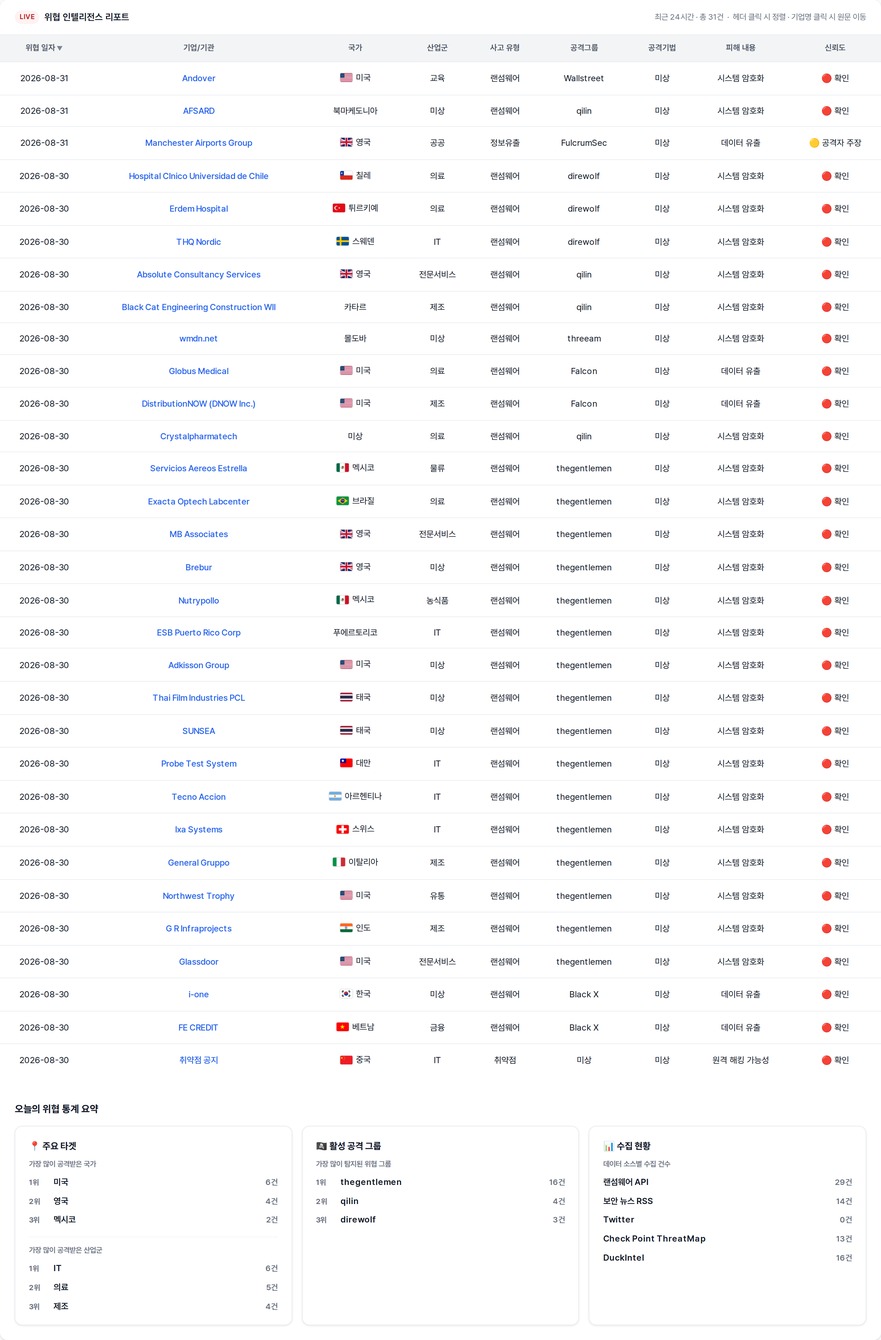
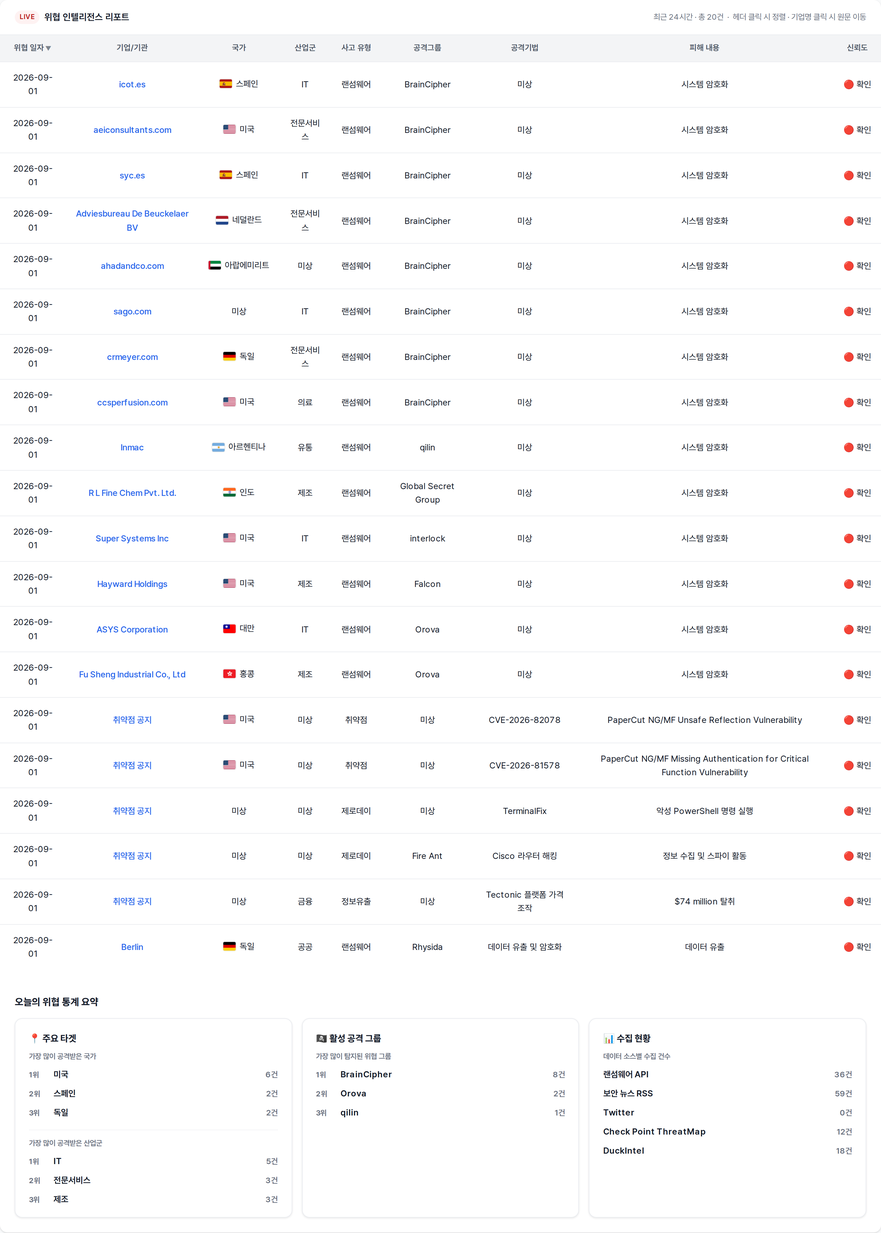
deploy: 9c533ad8fcaa3f846a31aadab046301a26f1192c

diff --git a/index.html b/index.html
@@ -3,7 +3,7 @@
 <head>
   <meta charset="UTF-8" />
   <meta name="viewport" content="width=device-width, initial-scale=1.0" />
-  <title>🚨 2026년 08월 31일 국내/해외 사이버 위협 현황</title>
+  <title>🚨 2026년 09월 01일 국내/해외 사이버 위협 현황</title>
   <link rel="preconnect" href="https://cdn.jsdelivr.net" />
   <link href="https://cdn.jsdelivr.net/gh/orioncactus/pretendard/dist/web/static/pretendard.css" rel="stylesheet" />
   <style>
@@ -253,7 +253,7 @@
 </head>
 <body>
   <div class="page-header">
-    <h1 class="page-title">🚨 2026년 08월 31일 국내/해외 사이버 위협 현황</h1>
+    <h1 class="page-title">🚨 2026년 09월 01일 국내/해외 사이버 위협 현황</h1>
   </div>
 
   <div class="dashboard">
@@ -261,43 +261,32 @@
     <div class="card-header">
       <span class="badge">LIVE</span>
       <span class="card-title">위협 인텔리전스 리포트</span>
-      <span class="card-count">최근 24시간 · 총 31건 &nbsp;·&nbsp; 헤더 클릭 시 정렬 · 기업명 클릭 시 원문 이동</span>
+      <span class="card-count">최근 24시간 · 총 20건 &nbsp;·&nbsp; 헤더 클릭 시 정렬 · 기업명 클릭 시 원문 이동</span>
     </div>
     <div class="table-wrap" style="overflow-x: auto; -webkit-overflow-scrolling: touch;">
       <table id="threat-table">
         <thead><tr><th onclick="sortTable(0)" data-col="0" class="sort-desc">위협 일자</th><th onclick="sortTable(1)" data-col="1">기업/기관</th><th onclick="sortTable(2)" data-col="2">국가</th><th onclick="sortTable(3)" data-col="3">산업군</th><th onclick="sortTable(4)" data-col="4">사고 유형</th><th onclick="sortTable(5)" data-col="5">공격그룹</th><th onclick="sortTable(6)" data-col="6">공격기법</th><th onclick="sortTable(7)" data-col="7">피해 내용</th><th onclick="sortTable(8)" data-col="8">신뢰도</th></tr></thead>
         <tbody>
-<tr><td>2026-08-31</td><td><a href="https://www.ransomware.live/id/QW5kb3ZlckBXYWxsc3RyZWV0" target="_blank" rel="noopener noreferrer">Andover</a></td><td class="country"><span class="country-cell"><img class="flag" src="https://flagcdn.com/w40/us.png" alt="미국" width="20" height="14" />미국</span></td><td>교육</td><td>랜섬웨어</td><td>Wallstreet</td><td>미상</td><td>시스템 암호화</td><td>🔴 확인</td></tr>
-<tr><td>2026-08-31</td><td><a href="https://www.ransomware.live/id/QUZTQVJEQHFpbGlu" target="_blank" rel="noopener noreferrer">AFSARD</a></td><td class="country"><span class="country-cell">북마케도니아</span></td><td>미상</td><td>랜섬웨어</td><td>qilin</td><td>미상</td><td>시스템 암호화</td><td>🔴 확인</td></tr>
-<tr><td>2026-08-31</td><td><a href="https://www.bleepingcomputer.com/news/security/fulcrumsec-claims-manchester-airports-hack-theft-of-86-gb-of-data/" target="_blank" rel="noopener noreferrer">Manchester Airports Group</a></td><td class="country"><span class="country-cell"><img class="flag" src="https://flagcdn.com/w40/gb.png" alt="영국" width="20" height="14" />영국</span></td><td>공공</td><td>정보유출</td><td>FulcrumSec</td><td>미상</td><td>데이터 유출</td><td>🟡 공격자 주장</td></tr>
-<tr><td>2026-08-30</td><td><a href="https://www.ransomware.live/id/SG9zcGl0YWwgQ2xuaWNvIFVuaXZlcnNpZGFkIGRlIENoaWxlQGRpcmV3b2xm" target="_blank" rel="noopener noreferrer">Hospital Clnico Universidad de Chile</a></td><td class="country"><span class="country-cell"><img class="flag" src="https://flagcdn.com/w40/cl.png" alt="칠레" width="20" height="14" />칠레</span></td><td>의료</td><td>랜섬웨어</td><td>direwolf</td><td>미상</td><td>시스템 암호화</td><td>🔴 확인</td></tr>
-<tr><td>2026-08-30</td><td><a href="https://www.ransomware.live/id/RXJkZW0gSG9zcGl0YWxAZGlyZXdvbGY=" target="_blank" rel="noopener noreferrer">Erdem Hospital</a></td><td class="country"><span class="country-cell"><img class="flag" src="https://flagcdn.com/w40/tr.png" alt="튀르키예" width="20" height="14" />튀르키예</span></td><td>의료</td><td>랜섬웨어</td><td>direwolf</td><td>미상</td><td>시스템 암호화</td><td>🔴 확인</td></tr>
-<tr><td>2026-08-30</td><td><a href="https://www.ransomware.live/id/VEhRIE5vcmRpY0BkaXJld29sZg==" target="_blank" rel="noopener noreferrer">THQ Nordic</a></td><td class="country"><span class="country-cell"><img class="flag" src="https://flagcdn.com/w40/se.png" alt="스웨덴" width="20" height="14" />스웨덴</span></td><td>IT</td><td>랜섬웨어</td><td>direwolf</td><td>미상</td><td>시스템 암호화</td><td>🔴 확인</td></tr>
-<tr><td>2026-08-30</td><td><a href="https://www.ransomware.live/id/QWJzb2x1dGUgQ29uc3VsdGFuY3kgU2VydmljZXNAcWlsaW4=" target="_blank" rel="noopener noreferrer">Absolute Consultancy Services</a></td><td class="country"><span class="country-cell"><img class="flag" src="https://flagcdn.com/w40/gb.png" alt="영국" width="20" height="14" />영국</span></td><td>전문서비스</td><td>랜섬웨어</td><td>qilin</td><td>미상</td><td>시스템 암호화</td><td>🔴 확인</td></tr>
-<tr><td>2026-08-30</td><td><a href="https://www.ransomware.live/id/QmxhY2sgQ2F0IEVuZ2luZWVyaW5nIENvbnN0cnVjdGlvbiBXbGxAcWlsaW4=" target="_blank" rel="noopener noreferrer">Black Cat Engineering Construction Wll</a></td><td class="country"><span class="country-cell">카타르</span></td><td>제조</td><td>랜섬웨어</td><td>qilin</td><td>미상</td><td>시스템 암호화</td><td>🔴 확인</td></tr>
-<tr><td>2026-08-30</td><td><a href="https://www.ransomware.live/id/d21kbi5uZXRAdGhyZWVhbQ==" target="_blank" rel="noopener noreferrer">wmdn.net</a></td><td class="country"><span class="country-cell">몰도바</span></td><td>미상</td><td>랜섬웨어</td><td>threeam</td><td>미상</td><td>시스템 암호화</td><td>🔴 확인</td></tr>
-<tr><td>2026-08-30</td><td><a href="https://www.ransomware.live/id/R2xvYnVzIE1lZGljYWxARmFsY29u" target="_blank" rel="noopener noreferrer">Globus Medical</a></td><td class="country"><span class="country-cell"><img class="flag" src="https://flagcdn.com/w40/us.png" alt="미국" width="20" height="14" />미국</span></td><td>의료</td><td>랜섬웨어</td><td>Falcon</td><td>미상</td><td>데이터 유출</td><td>🔴 확인</td></tr>
-<tr><td>2026-08-30</td><td><a href="https://www.ransomware.live/id/RGlzdHJpYnV0aW9uTk9XIChETk9XIEluYy4pQEZhbGNvbg==" target="_blank" rel="noopener noreferrer">DistributionNOW (DNOW Inc.)</a></td><td class="country"><span class="country-cell"><img class="flag" src="https://flagcdn.com/w40/us.png" alt="미국" width="20" height="14" />미국</span></td><td>제조</td><td>랜섬웨어</td><td>Falcon</td><td>미상</td><td>데이터 유출</td><td>🔴 확인</td></tr>
-<tr><td>2026-08-30</td><td><a href="https://www.ransomware.live/id/Q3J5c3RhbHBoYXJtYXRlY2hAcWlsaW4=" target="_blank" rel="noopener noreferrer">Crystalpharmatech</a></td><td class="country"><span class="country-cell">미상</span></td><td>의료</td><td>랜섬웨어</td><td>qilin</td><td>미상</td><td>시스템 암호화</td><td>🔴 확인</td></tr>
-<tr><td>2026-08-30</td><td><a href="https://www.ransomware.live/id/U2VydmljaW9zIEFlcmVvcyBFc3RyZWxsYUB0aGVnZW50bGVtZW4=" target="_blank" rel="noopener noreferrer">Servicios Aereos Estrella</a></td><td class="country"><span class="country-cell"><img class="flag" src="https://flagcdn.com/w40/mx.png" alt="멕시코" width="20" height="14" />멕시코</span></td><td>물류</td><td>랜섬웨어</td><td>thegentlemen</td><td>미상</td><td>시스템 암호화</td><td>🔴 확인</td></tr>
-<tr><td>2026-08-30</td><td><a href="https://www.ransomware.live/id/RXhhY3RhIE9wdGVjaCBMYWJjZW50ZXJAdGhlZ2VudGxlbWVu" target="_blank" rel="noopener noreferrer">Exacta Optech Labcenter</a></td><td class="country"><span class="country-cell"><img class="flag" src="https://flagcdn.com/w40/br.png" alt="브라질" width="20" height="14" />브라질</span></td><td>의료</td><td>랜섬웨어</td><td>thegentlemen</td><td>미상</td><td>시스템 암호화</td><td>🔴 확인</td></tr>
-<tr><td>2026-08-30</td><td><a href="https://www.ransomware.live/id/TUIgQXNzb2NpYXRlc0B0aGVnZW50bGVtZW4=" target="_blank" rel="noopener noreferrer">MB Associates</a></td><td class="country"><span class="country-cell"><img class="flag" src="https://flagcdn.com/w40/gb.png" alt="영국" width="20" height="14" />영국</span></td><td>전문서비스</td><td>랜섬웨어</td><td>thegentlemen</td><td>미상</td><td>시스템 암호화</td><td>🔴 확인</td></tr>
-<tr><td>2026-08-30</td><td><a href="https://www.ransomware.live/id/QnJlYnVyQHRoZWdlbnRsZW1lbg==" target="_blank" rel="noopener noreferrer">Brebur</a></td><td class="country"><span class="country-cell"><img class="flag" src="https://flagcdn.com/w40/gb.png" alt="영국" width="20" height="14" />영국</span></td><td>미상</td><td>랜섬웨어</td><td>thegentlemen</td><td>미상</td><td>시스템 암호화</td><td>🔴 확인</td></tr>
-<tr><td>2026-08-30</td><td><a href="https://www.ransomware.live/id/TnV0cnlwb2xsb0B0aGVnZW50bGVtZW4=" target="_blank" rel="noopener noreferrer">Nutrypollo</a></td><td class="country"><span class="country-cell"><img class="flag" src="https://flagcdn.com/w40/mx.png" alt="멕시코" width="20" height="14" />멕시코</span></td><td>농식품</td><td>랜섬웨어</td><td>thegentlemen</td><td>미상</td><td>시스템 암호화</td><td>🔴 확인</td></tr>
-<tr><td>2026-08-30</td><td><a href="https://www.ransomware.live/id/RVNCIFB1ZXJ0byBSaWNvIENvcnBAdGhlZ2VudGxlbWVu" target="_blank" rel="noopener noreferrer">ESB Puerto Rico Corp</a></td><td class="country"><span class="country-cell">푸에르토리코</span></td><td>IT</td><td>랜섬웨어</td><td>thegentlemen</td><td>미상</td><td>시스템 암호화</td><td>🔴 확인</td></tr>
-<tr><td>2026-08-30</td><td><a href="https://www.ransomware.live/id/QWRraXNzb24gR3JvdXBAdGhlZ2VudGxlbWVu" target="_blank" rel="noopener noreferrer">Adkisson Group</a></td><td class="country"><span class="country-cell"><img class="flag" src="https://flagcdn.com/w40/us.png" alt="미국" width="20" height="14" />미국</span></td><td>미상</td><td>랜섬웨어</td><td>thegentlemen</td><td>미상</td><td>시스템 암호화</td><td>🔴 확인</td></tr>
-<tr><td>2026-08-30</td><td><a href="https://www.ransomware.live/id/VGhhaSBGaWxtIEluZHVzdHJpZXMgUENMQHRoZWdlbnRsZW1lbg==" target="_blank" rel="noopener noreferrer">Thai Film Industries PCL</a></td><td class="country"><span class="country-cell"><img class="flag" src="https://flagcdn.com/w40/th.png" alt="태국" width="20" height="14" />태국</span></td><td>미상</td><td>랜섬웨어</td><td>thegentlemen</td><td>미상</td><td>시스템 암호화</td><td>🔴 확인</td></tr>
-<tr><td>2026-08-30</td><td><a href="https://www.ransomware.live/id/U1VOU0VBQHRoZWdlbnRsZW1lbg==" target="_blank" rel="noopener noreferrer">SUNSEA</a></td><td class="country"><span class="country-cell"><img class="flag" src="https://flagcdn.com/w40/th.png" alt="태국" width="20" height="14" />태국</span></td><td>미상</td><td>랜섬웨어</td><td>thegentlemen</td><td>미상</td><td>시스템 암호화</td><td>🔴 확인</td></tr>
-<tr><td>2026-08-30</td><td><a href="https://www.ransomware.live/id/UHJvYmUgVGVzdCBTeXN0ZW1AdGhlZ2VudGxlbWVu" target="_blank" rel="noopener noreferrer">Probe Test System</a></td><td class="country"><span class="country-cell"><img class="flag" src="https://flagcdn.com/w40/tw.png" alt="대만" width="20" height="14" />대만</span></td><td>IT</td><td>랜섬웨어</td><td>thegentlemen</td><td>미상</td><td>시스템 암호화</td><td>🔴 확인</td></tr>
-<tr><td>2026-08-30</td><td><a href="https://www.ransomware.live/id/VGVjbm8gQWNjaW9uQHRoZWdlbnRsZW1lbg==" target="_blank" rel="noopener noreferrer">Tecno Accion</a></td><td class="country"><span class="country-cell"><img class="flag" src="https://flagcdn.com/w40/ar.png" alt="아르헨티나" width="20" height="14" />아르헨티나</span></td><td>IT</td><td>랜섬웨어</td><td>thegentlemen</td><td>미상</td><td>시스템 암호화</td><td>🔴 확인</td></tr>
-<tr><td>2026-08-30</td><td><a href="https://www.ransomware.live/id/SXhhIFN5c3RlbXNAdGhlZ2VudGxlbWVu" target="_blank" rel="noopener noreferrer">Ixa Systems</a></td><td class="country"><span class="country-cell"><img class="flag" src="https://flagcdn.com/w40/ch.png" alt="스위스" width="20" height="14" />스위스</span></td><td>IT</td><td>랜섬웨어</td><td>thegentlemen</td><td>미상</td><td>시스템 암호화</td><td>🔴 확인</td></tr>
-<tr><td>2026-08-30</td><td><a href="https://www.ransomware.live/id/R2VuZXJhbCBHcnVwcG9AdGhlZ2VudGxlbWVu" target="_blank" rel="noopener noreferrer">General Gruppo</a></td><td class="country"><span class="country-cell"><img class="flag" src="https://flagcdn.com/w40/it.png" alt="이탈리아" width="20" height="14" />이탈리아</span></td><td>제조</td><td>랜섬웨어</td><td>thegentlemen</td><td>미상</td><td>시스템 암호화</td><td>🔴 확인</td></tr>
-<tr><td>2026-08-30</td><td><a href="https://www.ransomware.live/id/Tm9ydGh3ZXN0IFRyb3BoeUB0aGVnZW50bGVtZW4=" target="_blank" rel="noopener noreferrer">Northwest Trophy</a></td><td class="country"><span class="country-cell"><img class="flag" src="https://flagcdn.com/w40/us.png" alt="미국" width="20" height="14" />미국</span></td><td>유통</td><td>랜섬웨어</td><td>thegentlemen</td><td>미상</td><td>시스템 암호화</td><td>🔴 확인</td></tr>
-<tr><td>2026-08-30</td><td><a href="https://www.ransomware.live/id/RyBSIEluZnJhcHJvamVjdHNAdGhlZ2VudGxlbWVu" target="_blank" rel="noopener noreferrer">G R Infraprojects</a></td><td class="country"><span class="country-cell"><img class="flag" src="https://flagcdn.com/w40/in.png" alt="인도" width="20" height="14" />인도</span></td><td>제조</td><td>랜섬웨어</td><td>thegentlemen</td><td>미상</td><td>시스템 암호화</td><td>🔴 확인</td></tr>
-<tr><td>2026-08-30</td><td><a href="https://www.ransomware.live/id/R2xhc3Nkb29yQHRoZWdlbnRsZW1lbg==" target="_blank" rel="noopener noreferrer">Glassdoor</a></td><td class="country"><span class="country-cell"><img class="flag" src="https://flagcdn.com/w40/us.png" alt="미국" width="20" height="14" />미국</span></td><td>전문서비스</td><td>랜섬웨어</td><td>thegentlemen</td><td>미상</td><td>시스템 암호화</td><td>🔴 확인</td></tr>
-<tr><td>2026-08-30</td><td><a href="https://www.ransomware.live/id/aS1vbmVAQmxhY2sgWA==" target="_blank" rel="noopener noreferrer">i-one</a></td><td class="country"><span class="country-cell"><img class="flag" src="https://flagcdn.com/w40/kr.png" alt="한국" width="20" height="14" />한국</span></td><td>미상</td><td>랜섬웨어</td><td>Black X</td><td>미상</td><td>데이터 유출</td><td>🔴 확인</td></tr>
-<tr><td>2026-08-30</td><td><a href="https://www.ransomware.live/id/RkUgQ1JFRElUQEJsYWNrIFg=" target="_blank" rel="noopener noreferrer">FE CREDIT</a></td><td class="country"><span class="country-cell"><img class="flag" src="https://flagcdn.com/w40/vn.png" alt="베트남" width="20" height="14" />베트남</span></td><td>금융</td><td>랜섬웨어</td><td>Black X</td><td>미상</td><td>데이터 유출</td><td>🔴 확인</td></tr>
-<tr><td>2026-08-30</td><td><a href="https://www.dailysecu.com/news/articleView.html?idxno=208268" target="_blank" rel="noopener noreferrer">취약점 공지</a></td><td class="country"><span class="country-cell"><img class="flag" src="https://flagcdn.com/w40/cn.png" alt="중국" width="20" height="14" />중국</span></td><td>IT</td><td>취약점</td><td>미상</td><td>미상</td><td>원격 해킹 가능성</td><td>🔴 확인</td></tr>
+<tr><td>2026-09-01</td><td><a href="https://www.ransomware.live/id/aWNvdC5lc0BCcmFpbkNpcGhlcg==" target="_blank" rel="noopener noreferrer">icot.es</a></td><td class="country"><span class="country-cell"><img class="flag" src="https://flagcdn.com/w40/es.png" alt="스페인" width="20" height="14" />스페인</span></td><td>IT</td><td>랜섬웨어</td><td>BrainCipher</td><td>미상</td><td>시스템 암호화</td><td>🔴 확인</td></tr>
+<tr><td>2026-09-01</td><td><a href="https://www.ransomware.live/id/YWVpY29uc3VsdGFudHMuY29tQEJyYWluQ2lwaGVy" target="_blank" rel="noopener noreferrer">aeiconsultants.com</a></td><td class="country"><span class="country-cell"><img class="flag" src="https://flagcdn.com/w40/us.png" alt="미국" width="20" height="14" />미국</span></td><td>전문서비스</td><td>랜섬웨어</td><td>BrainCipher</td><td>미상</td><td>시스템 암호화</td><td>🔴 확인</td></tr>
+<tr><td>2026-09-01</td><td><a href="https://www.ransomware.live/id/c3ljLmVzQEJyYWluQ2lwaGVy" target="_blank" rel="noopener noreferrer">syc.es</a></td><td class="country"><span class="country-cell"><img class="flag" src="https://flagcdn.com/w40/es.png" alt="스페인" width="20" height="14" />스페인</span></td><td>IT</td><td>랜섬웨어</td><td>BrainCipher</td><td>미상</td><td>시스템 암호화</td><td>🔴 확인</td></tr>
+<tr><td>2026-09-01</td><td><a href="https://www.ransomware.live/id/QWR2aWVzYnVyZWF1IERlIEJldWNrZWxhZXIgQlZAQnJhaW5DaXBoZXI=" target="_blank" rel="noopener noreferrer">Adviesbureau De Beuckelaer BV</a></td><td class="country"><span class="country-cell"><img class="flag" src="https://flagcdn.com/w40/nl.png" alt="네덜란드" width="20" height="14" />네덜란드</span></td><td>전문서비스</td><td>랜섬웨어</td><td>BrainCipher</td><td>미상</td><td>시스템 암호화</td><td>🔴 확인</td></tr>
+<tr><td>2026-09-01</td><td><a href="https://www.ransomware.live/id/YWhhZGFuZGNvLmNvbUBCcmFpbkNpcGhlcg==" target="_blank" rel="noopener noreferrer">ahadandco.com</a></td><td class="country"><span class="country-cell"><img class="flag" src="https://flagcdn.com/w40/ae.png" alt="아랍에미리트" width="20" height="14" />아랍에미리트</span></td><td>미상</td><td>랜섬웨어</td><td>BrainCipher</td><td>미상</td><td>시스템 암호화</td><td>🔴 확인</td></tr>
+<tr><td>2026-09-01</td><td><a href="https://www.ransomware.live/id/c2Fnby5jb21AQnJhaW5DaXBoZXI=" target="_blank" rel="noopener noreferrer">sago.com</a></td><td class="country"><span class="country-cell">미상</span></td><td>IT</td><td>랜섬웨어</td><td>BrainCipher</td><td>미상</td><td>시스템 암호화</td><td>🔴 확인</td></tr>
+<tr><td>2026-09-01</td><td><a href="https://www.ransomware.live/id/Y3JtZXllci5jb21AQnJhaW5DaXBoZXI=" target="_blank" rel="noopener noreferrer">crmeyer.com</a></td><td class="country"><span class="country-cell"><img class="flag" src="https://flagcdn.com/w40/de.png" alt="독일" width="20" height="14" />독일</span></td><td>전문서비스</td><td>랜섬웨어</td><td>BrainCipher</td><td>미상</td><td>시스템 암호화</td><td>🔴 확인</td></tr>
+<tr><td>2026-09-01</td><td><a href="https://www.ransomware.live/id/Y2NzcGVyZnVzaW9uLmNvbUBCcmFpbkNpcGhlcg==" target="_blank" rel="noopener noreferrer">ccsperfusion.com</a></td><td class="country"><span class="country-cell"><img class="flag" src="https://flagcdn.com/w40/us.png" alt="미국" width="20" height="14" />미국</span></td><td>의료</td><td>랜섬웨어</td><td>BrainCipher</td><td>미상</td><td>시스템 암호화</td><td>🔴 확인</td></tr>
+<tr><td>2026-09-01</td><td><a href="https://www.ransomware.live/id/SW5tYWNAcWlsaW4=" target="_blank" rel="noopener noreferrer">Inmac</a></td><td class="country"><span class="country-cell"><img class="flag" src="https://flagcdn.com/w40/ar.png" alt="아르헨티나" width="20" height="14" />아르헨티나</span></td><td>유통</td><td>랜섬웨어</td><td>qilin</td><td>미상</td><td>시스템 암호화</td><td>🔴 확인</td></tr>
+<tr><td>2026-09-01</td><td><a href="https://www.ransomware.live/id/UiBMIEZpbmUgQ2hlbSBQdnQuIEx0ZC5AR2xvYmFsIFNlY3JldCBHcm91cA==" target="_blank" rel="noopener noreferrer">R L Fine Chem Pvt. Ltd.</a></td><td class="country"><span class="country-cell"><img class="flag" src="https://flagcdn.com/w40/in.png" alt="인도" width="20" height="14" />인도</span></td><td>제조</td><td>랜섬웨어</td><td>Global Secret Group</td><td>미상</td><td>시스템 암호화</td><td>🔴 확인</td></tr>
+<tr><td>2026-09-01</td><td><a href="https://www.ransomware.live/id/U3VwZXIgU3lzdGVtcyBJbmNAaW50ZXJsb2Nr" target="_blank" rel="noopener noreferrer">Super Systems Inc</a></td><td class="country"><span class="country-cell"><img class="flag" src="https://flagcdn.com/w40/us.png" alt="미국" width="20" height="14" />미국</span></td><td>IT</td><td>랜섬웨어</td><td>interlock</td><td>미상</td><td>시스템 암호화</td><td>🔴 확인</td></tr>
+<tr><td>2026-09-01</td><td><a href="https://www.ransomware.live/id/SGF5d2FyZCBIb2xkaW5nc0BGYWxjb24=" target="_blank" rel="noopener noreferrer">Hayward Holdings</a></td><td class="country"><span class="country-cell"><img class="flag" src="https://flagcdn.com/w40/us.png" alt="미국" width="20" height="14" />미국</span></td><td>제조</td><td>랜섬웨어</td><td>Falcon</td><td>미상</td><td>시스템 암호화</td><td>🔴 확인</td></tr>
+<tr><td>2026-09-01</td><td><a href="https://www.ransomware.live/id/QVNZUyBDb3Jwb3JhdGlvbkBPcm92YQ==" target="_blank" rel="noopener noreferrer">ASYS Corporation</a></td><td class="country"><span class="country-cell"><img class="flag" src="https://flagcdn.com/w40/tw.png" alt="대만" width="20" height="14" />대만</span></td><td>IT</td><td>랜섬웨어</td><td>Orova</td><td>미상</td><td>시스템 암호화</td><td>🔴 확인</td></tr>
+<tr><td>2026-09-01</td><td><a href="https://www.ransomware.live/id/RnUgU2hlbmcgSW5kdXN0cmlhbCBDby4sIEx0ZEBPcm92YQ==" target="_blank" rel="noopener noreferrer">Fu Sheng Industrial Co., Ltd</a></td><td class="country"><span class="country-cell"><img class="flag" src="https://flagcdn.com/w40/hk.png" alt="홍콩" width="20" height="14" />홍콩</span></td><td>제조</td><td>랜섬웨어</td><td>Orova</td><td>미상</td><td>시스템 암호화</td><td>🔴 확인</td></tr>
+<tr><td>2026-09-01</td><td><a href="https://nvd.nist.gov/vuln/detail/CVE-2026-82078" target="_blank" rel="noopener noreferrer">취약점 공지</a></td><td class="country"><span class="country-cell"><img class="flag" src="https://flagcdn.com/w40/us.png" alt="미국" width="20" height="14" />미국</span></td><td>미상</td><td>취약점</td><td>미상</td><td>CVE-2026-82078</td><td>PaperCut NG/MF Unsafe Reflection Vulnerability</td><td>🔴 확인</td></tr>
+<tr><td>2026-09-01</td><td><a href="https://nvd.nist.gov/vuln/detail/CVE-2026-81578" target="_blank" rel="noopener noreferrer">취약점 공지</a></td><td class="country"><span class="country-cell"><img class="flag" src="https://flagcdn.com/w40/us.png" alt="미국" width="20" height="14" />미국</span></td><td>미상</td><td>취약점</td><td>미상</td><td>CVE-2026-81578</td><td>PaperCut NG/MF Missing Authentication for Critical Function Vulnerability</td><td>🔴 확인</td></tr>
+<tr><td>2026-09-01</td><td><a href="https://www.bleepingcomputer.com/news/security/microsoft-warns-of-terminalfix-attacks-deploying-reverse-tunnels/" target="_blank" rel="noopener noreferrer">취약점 공지</a></td><td class="country"><span class="country-cell">미상</span></td><td>미상</td><td>제로데이</td><td>미상</td><td>TerminalFix</td><td>악성 PowerShell 명령 실행</td><td>🔴 확인</td></tr>
+<tr><td>2026-09-01</td><td><a href="https://www.bleepingcomputer.com/news/security/chinese-fire-ant-hackers-turn-cisco-routers-into-spying-platforms/" target="_blank" rel="noopener noreferrer">취약점 공지</a></td><td class="country"><span class="country-cell">미상</span></td><td>미상</td><td>제로데이</td><td>Fire Ant</td><td>Cisco 라우터 해킹</td><td>정보 수집 및 스파이 활동</td><td>🔴 확인</td></tr>
+<tr><td>2026-09-01</td><td><a href="https://www.bleepingcomputer.com/news/security/cronos-blockchain-restarts-after-74-million-tectonic-exploit/" target="_blank" rel="noopener noreferrer">취약점 공지</a></td><td class="country"><span class="country-cell">미상</span></td><td>금융</td><td>정보유출</td><td>미상</td><td>Tectonic 플랫폼 가격 조작</td><td>$74 million 탈취</td><td>🔴 확인</td></tr>
+<tr><td>2026-09-01</td><td><a href="https://www.bleepingcomputer.com/news/security/berlin-confirms-data-theft-after-rhysida-ransomware-attack-claims/" target="_blank" rel="noopener noreferrer">Berlin</a></td><td class="country"><span class="country-cell"><img class="flag" src="https://flagcdn.com/w40/de.png" alt="독일" width="20" height="14" />독일</span></td><td>공공</td><td>랜섬웨어</td><td>Rhysida</td><td>데이터 유출 및 암호화</td><td>데이터 유출</td><td>🔴 확인</td></tr>
         </tbody>
       </table>
     </div>
@@ -308,19 +297,19 @@
       <article class="stat-card">
         <h3 class="stat-title">📍 주요 타겟</h3>
         <p class="stat-subtitle">가장 많이 공격받은 국가</p>
-        <ol class="stat-list"><li><span class="stat-rank">1위</span><span class="stat-name">미국</span><span class="stat-count">6건</span></li><li><span class="stat-rank">2위</span><span class="stat-name">영국</span><span class="stat-count">4건</span></li><li><span class="stat-rank">3위</span><span class="stat-name">멕시코</span><span class="stat-count">2건</span></li></ol>
+        <ol class="stat-list"><li><span class="stat-rank">1위</span><span class="stat-name">미국</span><span class="stat-count">6건</span></li><li><span class="stat-rank">2위</span><span class="stat-name">스페인</span><span class="stat-count">2건</span></li><li><span class="stat-rank">3위</span><span class="stat-name">독일</span><span class="stat-count">2건</span></li></ol>
         <p class="stat-subtitle stat-subtitle-gap">가장 많이 공격받은 산업군</p>
-        <ol class="stat-list"><li><span class="stat-rank">1위</span><span class="stat-name">IT</span><span class="stat-count">6건</span></li><li><span class="stat-rank">2위</span><span class="stat-name">의료</span><span class="stat-count">5건</span></li><li><span class="stat-rank">3위</span><span class="stat-name">제조</span><span class="stat-count">4건</span></li></ol>
+        <ol class="stat-list"><li><span class="stat-rank">1위</span><span class="stat-name">IT</span><span class="stat-count">5건</span></li><li><span class="stat-rank">2위</span><span class="stat-name">전문서비스</span><span class="stat-count">3건</span></li><li><span class="stat-rank">3위</span><span class="stat-name">제조</span><span class="stat-count">3건</span></li></ol>
       </article>
       <article class="stat-card">
         <h3 class="stat-title">🏴☠ 활성 공격 그룹</h3>
         <p class="stat-subtitle">가장 많이 탐지된 위협 그룹</p>
-        <ol class="stat-list"><li><span class="stat-rank">1위</span><span class="stat-name">thegentlemen</span><span class="stat-count">16건</span></li><li><span class="stat-rank">2위</span><span class="stat-name">qilin</span><span class="stat-count">4건</span></li><li><span class="stat-rank">3위</span><span class="stat-name">direwolf</span><span class="stat-count">3건</span></li></ol>
+        <ol class="stat-list"><li><span class="stat-rank">1위</span><span class="stat-name">BrainCipher</span><span class="stat-count">8건</span></li><li><span class="stat-rank">2위</span><span class="stat-name">Orova</span><span class="stat-count">2건</span></li><li><span class="stat-rank">3위</span><span class="stat-name">qilin</span><span class="stat-count">1건</span></li></ol>
       </article>
       <article class="stat-card">
         <h3 class="stat-title">📊 수집 현황</h3>
         <p class="stat-subtitle">데이터 소스별 수집 건수</p>
-        <ul class="stat-list stat-sources"><li><span class="stat-name">랜섬웨어 API</span><span class="stat-count">29건</span></li><li><span class="stat-name">보안 뉴스 RSS</span><span class="stat-count">14건</span></li><li><span class="stat-name">Twitter</span><span class="stat-count">0건</span></li><li><span class="stat-name">Check Point ThreatMap</span><span class="stat-count">13건</span></li><li><span class="stat-name">DuckIntel</span><span class="stat-count">16건</span></li></ul>
+        <ul class="stat-list stat-sources"><li><span class="stat-name">랜섬웨어 API</span><span class="stat-count">36건</span></li><li><span class="stat-name">보안 뉴스 RSS</span><span class="stat-count">59건</span></li><li><span class="stat-name">Twitter</span><span class="stat-count">0건</span></li><li><span class="stat-name">Check Point ThreatMap</span><span class="stat-count">12건</span></li><li><span class="stat-name">DuckIntel</span><span class="stat-count">18건</span></li></ul>
       </article>
     </div>
   </section>
